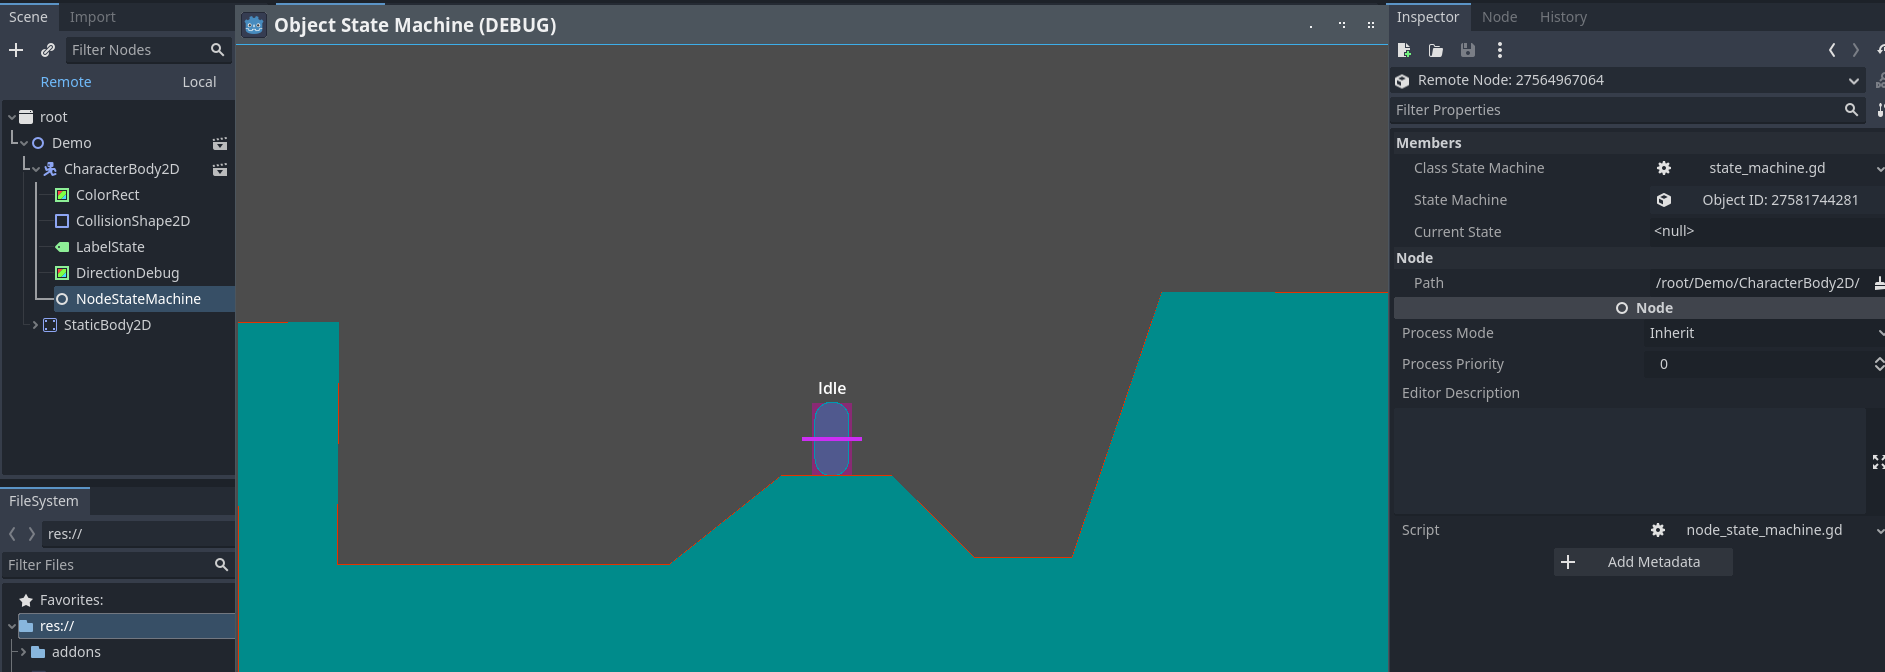
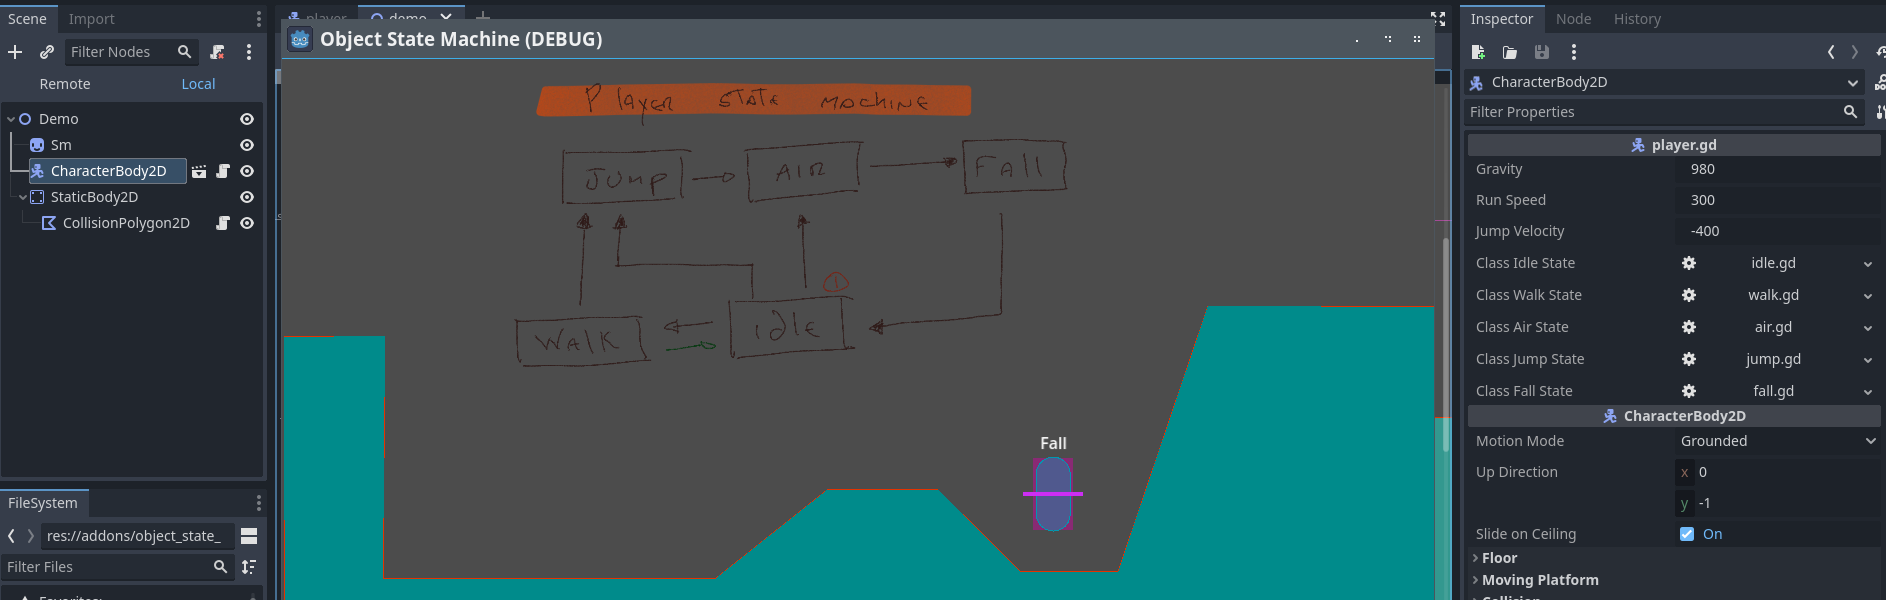
update demo

diff --git a/CHANGELOG.md b/CHANGELOG.md
@@ -1,5 +1,11 @@
 # Changelog
 
+## [0.6.1] - 2023-02-28
+
+### Changed
+- KinematicBody2D platform demo for Godot v3 (update)
+- CharacterBody2D platform demo for Godot v4 (update)
+
 ## [0.6.0] - 2023-02-28
 
 ### Added
